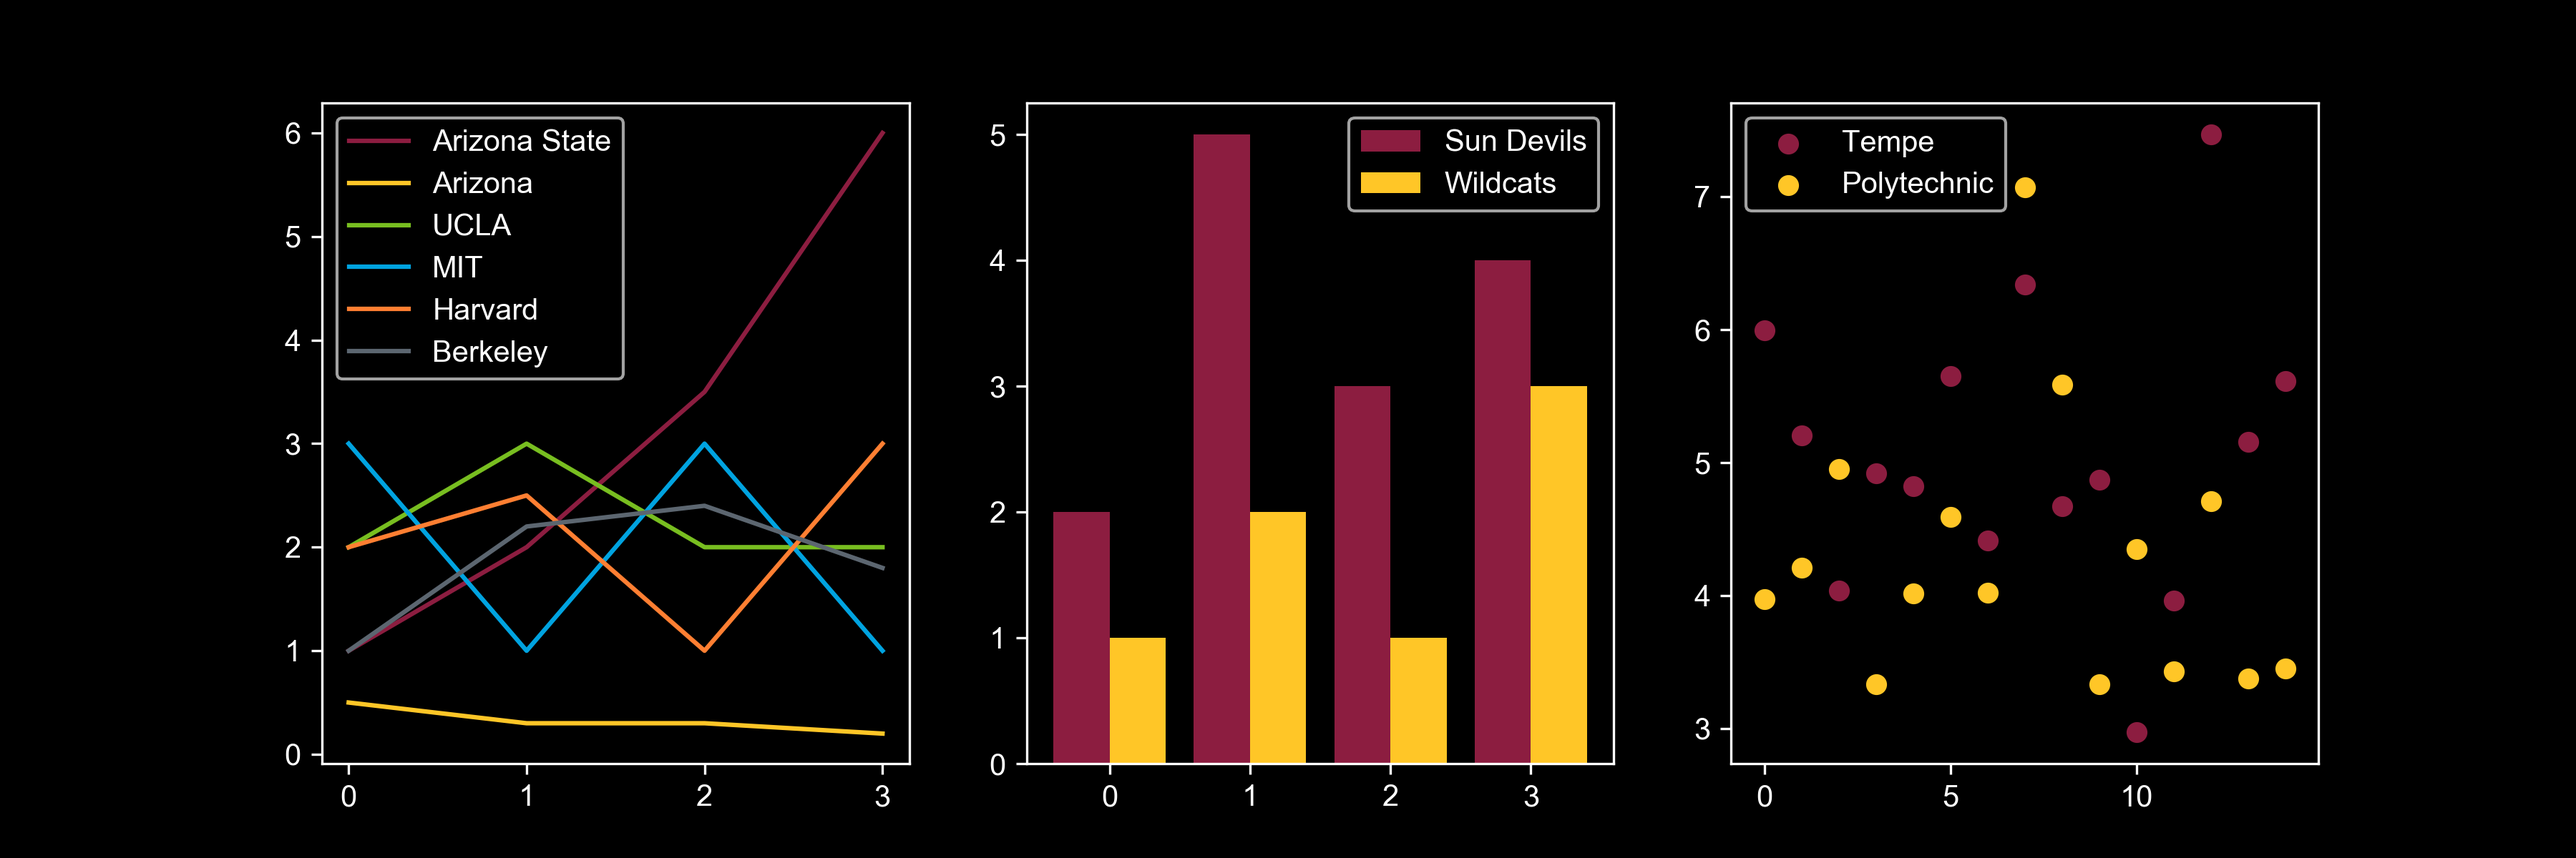
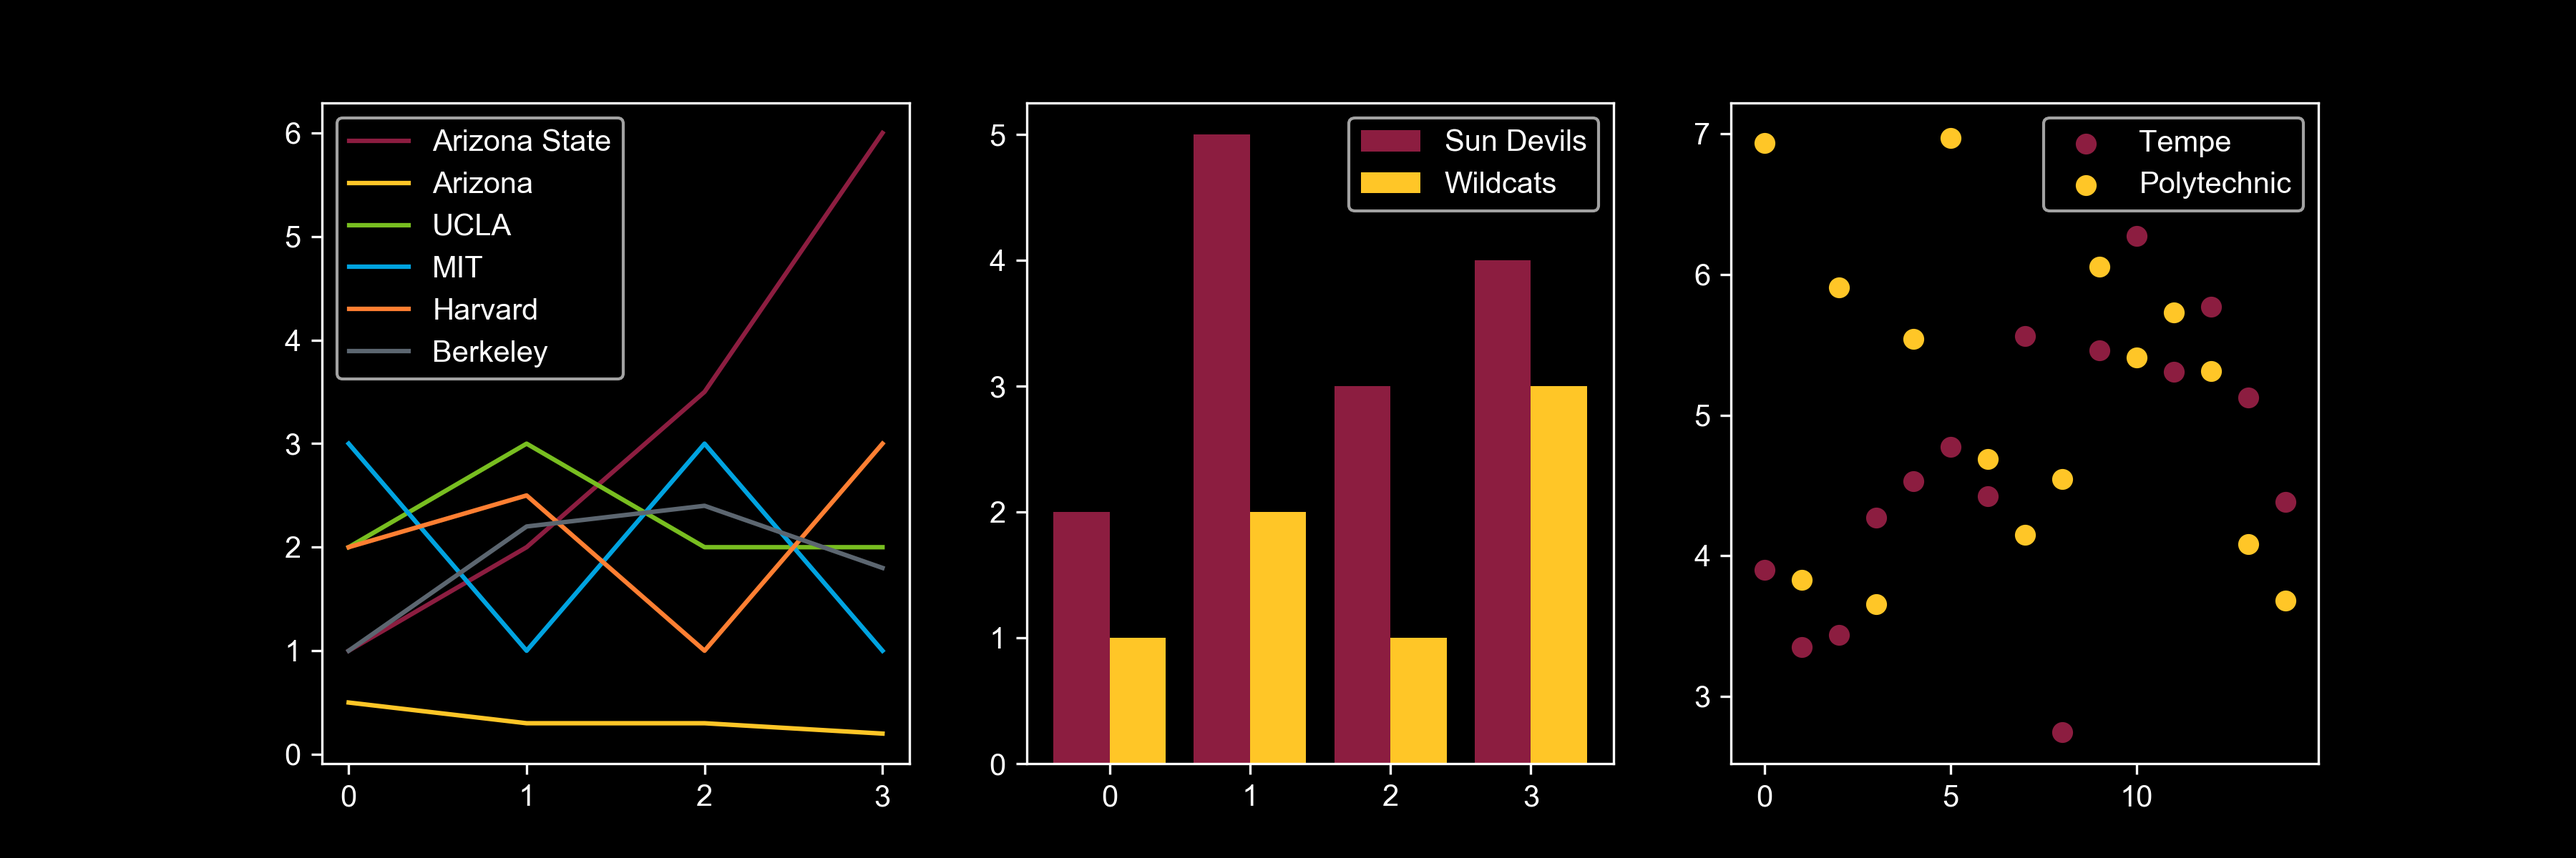
add asu light style - fixes #1.

diff --git a/make-examples.py b/make-examples.py
@@ -6,7 +6,7 @@ import os.path
 
 def create_plot (style):
     # make darn sure we're using the styles from the repo, and not the styles that may be installed on the system
-    plt.style.use(os.path.join(os.path.dirname(__file__), f'{style}.mplstyle'))
+    plt.style.use(os.path.join(os.path.dirname(__file__), 'styles', f'{style}.mplstyle'))
     plt.subplots(1, 3, figsize=(12, 4))
 
     # line plot
@@ -39,4 +39,5 @@ def create_plot (style):
     plt.savefig(f'examples/{style}.png', dpi=300)
 
 create_plot('asu-dark')
+create_plot('asu-light')
 

diff --git a/README.md b/README.md
@@ -10,6 +10,12 @@ Eventually there will be multiple styles with different backgrounds available. F
 
 ![asu-dark](examples/asu-dark.png)
 
+### `asu-light`
+
+![asu-light](examples/asu-light.png)
+
+The ASU Gold is included later in the cycle of standard colors due to contrast issues between the gold and white background—other colors are more visible on the white background.
+
 ## Installation
 
 Clone or download this repository (big green button above), and copy the contents of the `styles` folder into the `stylelib` subfolder of your `matplotlib` configuration directory (you may need to create the `stylelib` directory). For me, this is `~/.matplotlib/stylelib`. You can find your configuration directory by running
